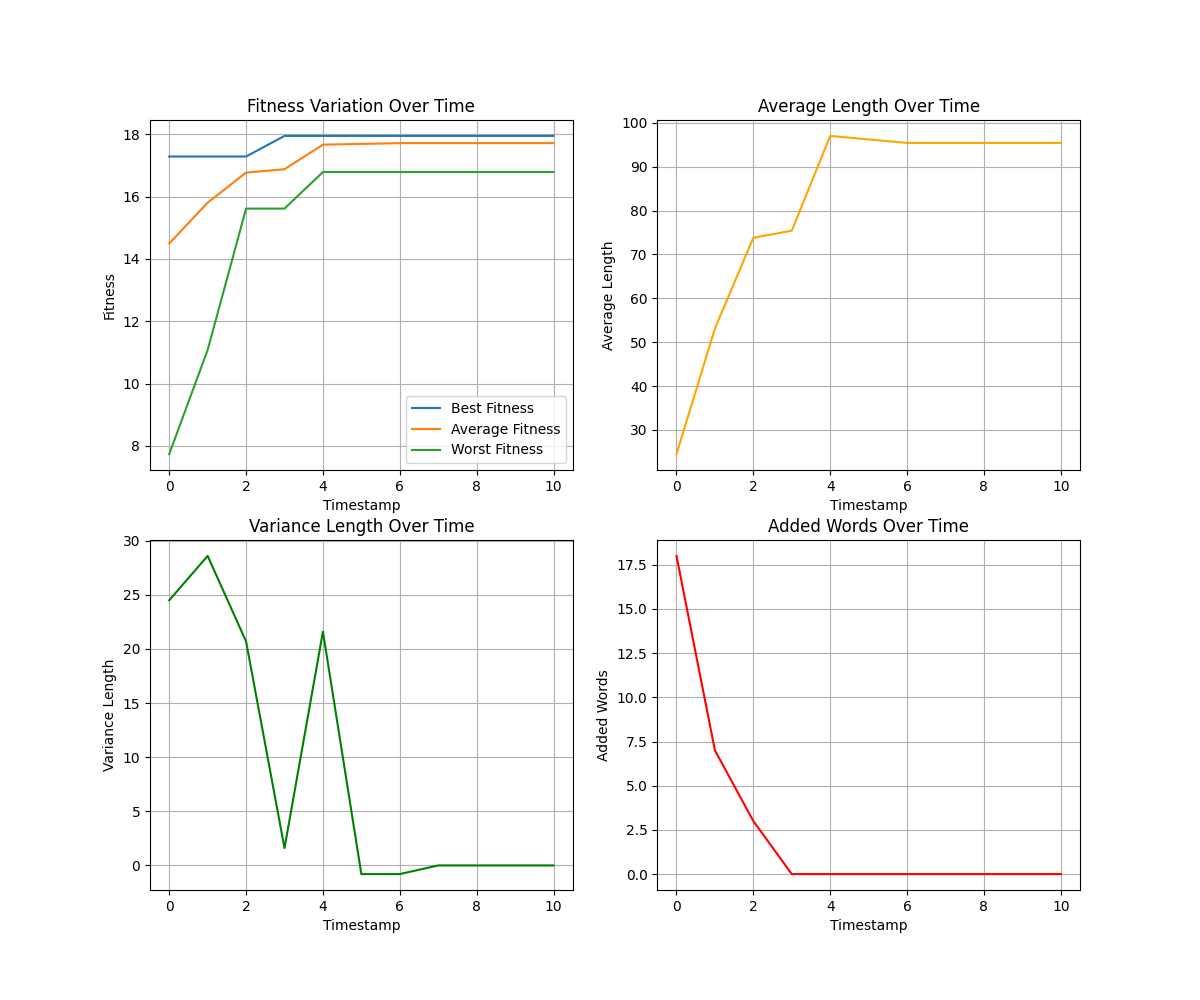
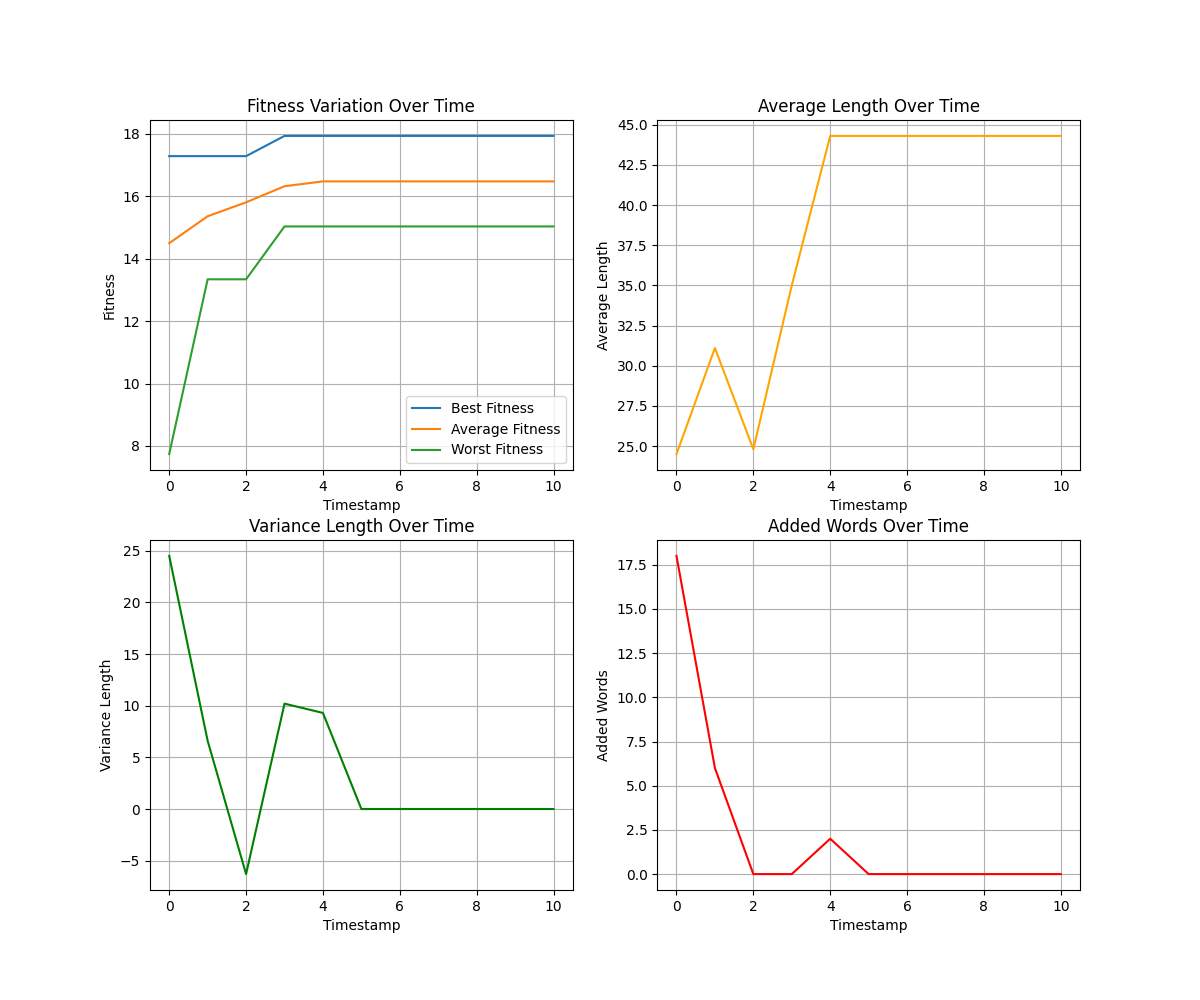
added more diff evo runs

diff --git a/diff_evo.py b/diff_evo.py
@@ -26,36 +26,20 @@ seen_words = []
 
 template = { 
     "differential_evolution": """### Instructions
-Follow these steps to improve a given prompt:
+Follow these steps to improve a given prompt, without changing its structure:
 1. Identify differences between Prompt 1 and Prompt 2.
-2. Mutate the differing parts by replacing them with alternative phrases.
-3. Use the mutated parts to modify Prompt 3 and create a new prompt.
-4. Combine the new prompt with the Basic Prompt to produce a final prompt enclosed in <prompt> and </prompt>.
-
-### Example (DO NOT MODIFY)
-Prompt 1: Rewrite the input text into simpler text.  
-Prompt 2: Rewrite my complex sentence in simpler terms, but keep the meaning.  
-Differences: 
-- "input text" vs "my complex sentence"
-- "simpler text" vs "simpler terms, but keep the meaning."  
-Mutations:
-- "input text" -> "provided text,"
-- "simpler text" -> "easier language," etc.  
-Prompt 3: Rewrite the given input text into simpler English sentences while preserving the same meaning.  
-New Prompt: Transform the provided text into easier language while maintaining the meaning.  
-Basic Prompt: Make the sentence easier for people who do not speak English fluently.  
-Final Prompt: <prompt>Convert the difficult sentence into simpler words while preserving the meaning, so it's easier for non-native English speakers to understand.</prompt>  
+2. Randomly mutate the different parts.
+3. Combine the different parts with Prompt 3, selectively replace it with the different parts in step 2 and generate a new prompt:
+4. Crossover the prompt in step 3 with the basic prompt and generate a final prompt bracketed with <prompt> and </prompt>:
 
 ### Task
-Apply the steps to these prompts:
+Apply the steps to these prompts, without changing their structure:
 Prompt 1: <prompt1>  
 Prompt 2: <prompt2>  
 Prompt 3: <prompt3>  
 Basic Prompt: <prompt0>  
 
 Output: Final improved prompt enclosed in <prompt> and </prompt>.
-
-Your response:
     """           
 }
 
@@ -161,7 +145,7 @@ def crossover_mutation(model, tokenizer, ea_strategy, text1, text2, text3=None, 
     inputs = tokenizer(request_content, return_tensors="pt").to(first_device)
     out = model.generate(inputs=inputs.input_ids, max_new_tokens=100)
     output_text = tokenizer.batch_decode(out.cpu(), skip_special_tokens=True)[0]
-    print(get_final_prompt(output_text))
+    print("Mutant: ", get_final_prompt(output_text))
     return get_final_prompt(output_text)
     
 
@@ -175,6 +159,7 @@ def de_run(loader, initial_population, clip_model, clip_processor, model, tokeni
     best_prompt = None
     best_score = -float('inf')
     ea_strategy = "differential_evolution"
+    local_random = random.Random()
 
     # DOES NOT WORK
     """ # Define the file path for saving fitness scores
@@ -239,11 +224,14 @@ def de_run(loader, initial_population, clip_model, clip_processor, model, tokeni
 
         # Crossover and mutation to generate children
         for j in tqdm(range(pop_size), desc="Generation"):
+            local_random.seed(j)
+
             # Generate a mutant by crossover and mutation
             candidate = population[j]
-            donor1, donor2, donor3 = random.sample(population, 3)
+            donor1, donor2, donor3 = local_random.sample(population, 3)
             if not donor_random:
                 donor3 = best_prompt
+            print(f"Original prompt: {candidate} \nDonors: {donor1}, {donor2}, {donor3}")
             mutant = crossover_mutation(model, tokenizer, ea_strategy, candidate, donor1, donor2, donor3)
             mutant_score = get_fitness(loader, mutant, clip_model, clip_processor)
 
@@ -411,7 +399,7 @@ if __name__ == "__main__":
     # Run the genetic algorithm
     best_prompt, best_score = de_run(loader, initial_population, clip_model, clip_processor, alpaca_model, alpaca_tokenizer, generations, pop_size, donor_random=False, file_name=file_name)
     #mutant = crossover_mutation(alpaca_model, alpaca_tokenizer, "differential_evolution", 'a jpeg corrupted photo of the <tag>.', 'a photo of a nice <tag>.', 'a rendition of the <tag>.', 'a bright photo of a <tag>.')
-    print(mutant)
+    #print(mutant)
     print(f"Best Prompt: {best_prompt}")
     print(f"Best Score: {best_score}")
 

diff --git a/diff_evo_runs.py b/diff_evo_runs.py
@@ -2,13 +2,10 @@ import subprocess
 import re
 
 # Define parameter combinations
-already_ran = [
-    "--generations 10 --population 10 --donor_random",
-    "--generations 10 --population 10",
-    "--generations 10 --population 20 --donor_random",
-]
-
 configs = [
+    #"--generations 10 --population 10 --donor_random",
+    #"--generations 10 --population 10",
+    "--generations 10 --population 20 --donor_random",
     "--generations 10 --population 20",
     "--generations 10 --population 50 --donor_random",
     "--generations 10 --population 50",
